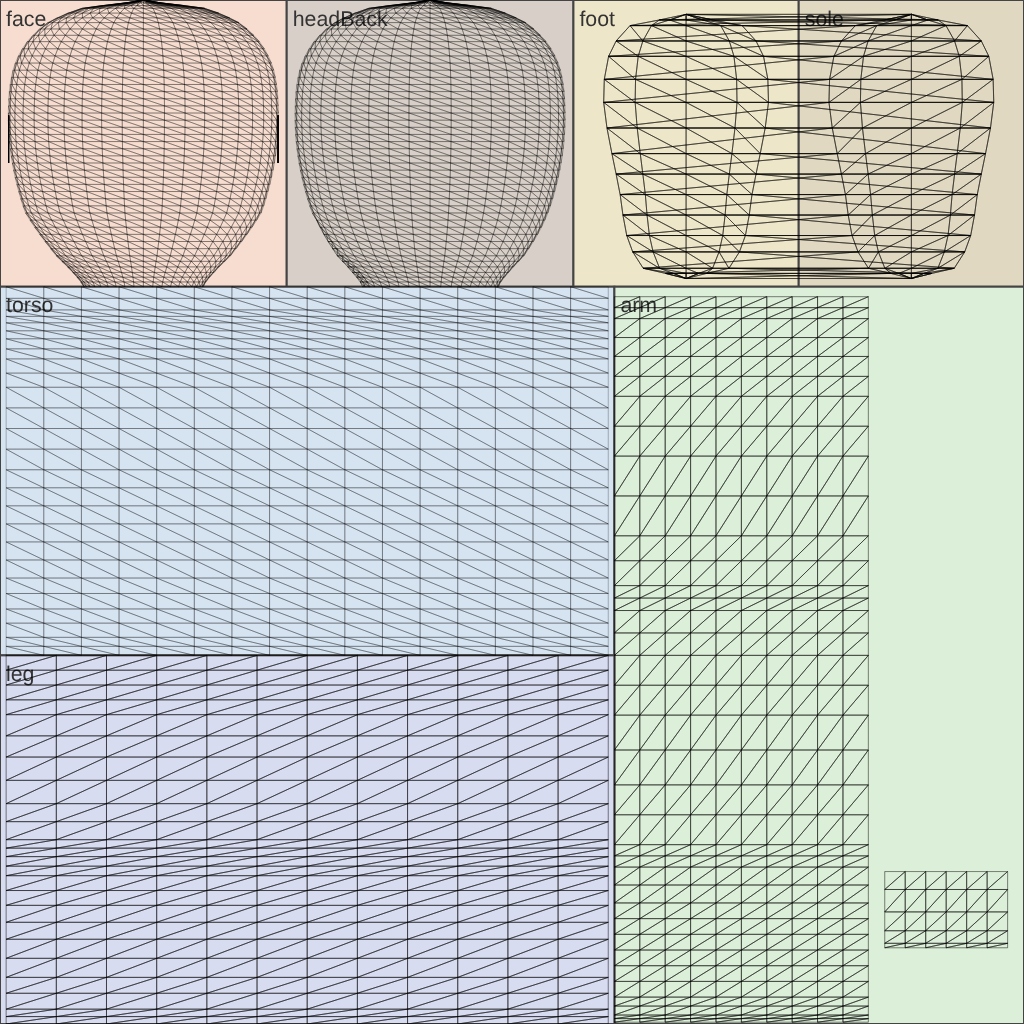
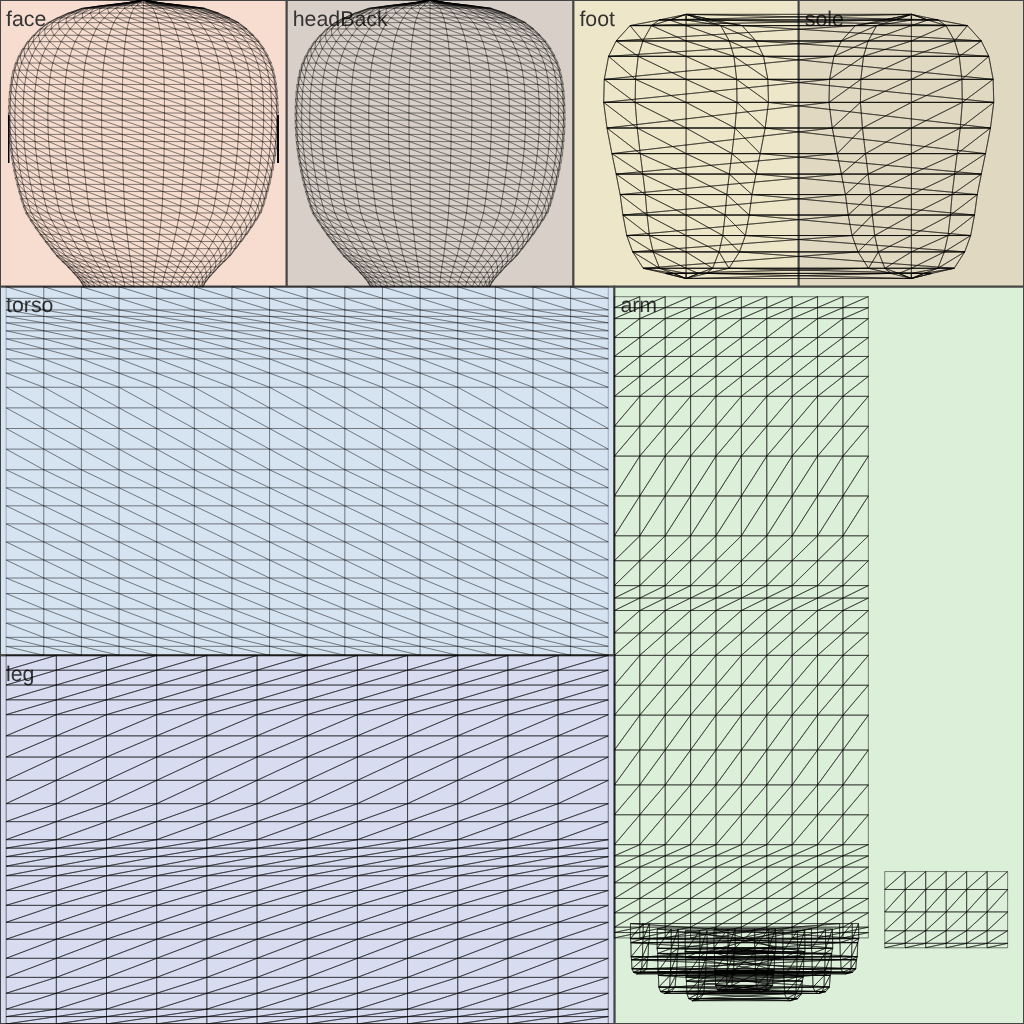
Bodies: separate fingers, clean hairline, shoulder blended into the torso
Claude-Session: https://claude.ai/code/session_01TQrqJmAwukpHBFUrZd2qrz

Changed region(s): [[0.5938, 0.8438, 0.8438, 1.0], [0.3125, 0.1875, 0.5312, 0.2812]]

diff --git a/src/models/body97.js b/src/models/body97.js
@@ -12,12 +12,12 @@ const SPEC = {
   m: { H: 1.78, hipY: 0.93, hipX: 0.088, shY: 1.435, shX: 0.198, armA: 0.16, neckY: 1.50, headY: 1.555, hs: 1.03,
     torso: [[0.80, 0.05, 0.05, 0.06, 0], [0.835, 0.135, 0.085, 0.10, 0], [0.89, 0.172, 0.10, 0.118, 0], [0.95, 0.170, 0.10, 0.112, 0], [1.02, 0.152, 0.098, 0.094, 0.004], [1.10, 0.152, 0.102, 0.09, 0.006], [1.19, 0.170, 0.112, 0.096, 0.006], [1.28, 0.190, 0.126, 0.108, 0.004], [1.36, 0.202, 0.124, 0.114, 0], [1.42, 0.204, 0.104, 0.110, -0.004], [1.462, 0.175, 0.08, 0.096, -0.008], [1.495, 0.092, 0.062, 0.078, -0.008], [1.52, 0.058, 0.056, 0.062, -0.004], [1.57, 0.054, 0.054, 0.06, 0.002]],
     arm: [[-0.045, 0.02, 0.03], [-0.02, 0.04, 0.05], [0.02, 0.05, 0.058], [0.06, 0.053, 0.06], [0.12, 0.052, 0.056], [0.20, 0.046, 0.05], [0.265, 0.04, 0.042], [0.295, 0.039, 0.04], [0.34, 0.045, 0.043], [0.40, 0.041, 0.038], [0.48, 0.032, 0.029], [0.545, 0.027, 0.022]],
-    leg: [[-0.07, 0.05, 0.05, 0.06], [0.0, 0.08, 0.088, 0.10], [0.07, 0.086, 0.09, 0.098], [0.18, 0.082, 0.084, 0.084], [0.30, 0.068, 0.07, 0.07], [0.39, 0.058, 0.06, 0.058], [0.435, 0.056, 0.062, 0.054], [0.48, 0.052, 0.054, 0.056], [0.56, 0.056, 0.05, 0.07], [0.64, 0.05, 0.046, 0.062], [0.74, 0.038, 0.038, 0.042], [0.82, 0.033, 0.034, 0.036], [0.855, 0.034, 0.036, 0.038]],
+    leg: [[-0.07, 0.05, 0.05, 0.06], [0.0, 0.08, 0.074, 0.10], [0.07, 0.086, 0.088, 0.098], [0.18, 0.082, 0.084, 0.084], [0.30, 0.068, 0.07, 0.07], [0.39, 0.058, 0.06, 0.058], [0.435, 0.056, 0.062, 0.054], [0.48, 0.052, 0.054, 0.056], [0.56, 0.056, 0.05, 0.07], [0.64, 0.05, 0.046, 0.062], [0.74, 0.038, 0.038, 0.042], [0.82, 0.033, 0.034, 0.036], [0.855, 0.034, 0.036, 0.038]],
     elbow: 0.295, wrist: 0.545, knee: 0.435, ankle: 0.855, hand: 1.0, foot: 1.0 },
   f: { H: 1.66, hipY: 0.87, hipX: 0.086, shY: 1.338, shX: 0.168, armA: 0.17, neckY: 1.40, headY: 1.45, hs: 0.955,
     torso: [[0.75, 0.05, 0.05, 0.06, 0], [0.785, 0.14, 0.085, 0.105, 0], [0.84, 0.182, 0.10, 0.125, 0], [0.90, 0.176, 0.098, 0.115, 0], [0.97, 0.142, 0.088, 0.088, 0.004], [1.04, 0.124, 0.084, 0.078, 0.006], [1.11, 0.132, 0.092, 0.082, 0.006], [1.19, 0.146, 0.104, 0.092, 0.004], [1.27, 0.166, 0.106, 0.098, 0], [1.325, 0.170, 0.09, 0.096, -0.004], [1.364, 0.146, 0.068, 0.084, -0.008], [1.395, 0.074, 0.054, 0.066, -0.008], [1.42, 0.048, 0.046, 0.052, -0.004], [1.465, 0.045, 0.045, 0.05, 0.002]],
     arm: [[-0.04, 0.018, 0.026], [-0.018, 0.033, 0.042], [0.02, 0.041, 0.048], [0.06, 0.044, 0.049], [0.12, 0.043, 0.046], [0.20, 0.038, 0.041], [0.25, 0.034, 0.036], [0.275, 0.033, 0.034], [0.32, 0.037, 0.036], [0.38, 0.034, 0.032], [0.45, 0.027, 0.025], [0.51, 0.023, 0.019]],
-    leg: [[-0.07, 0.05, 0.05, 0.06], [0.0, 0.084, 0.088, 0.104], [0.07, 0.092, 0.09, 0.102], [0.17, 0.084, 0.084, 0.086], [0.28, 0.068, 0.07, 0.07], [0.365, 0.056, 0.058, 0.056], [0.405, 0.053, 0.058, 0.052], [0.45, 0.049, 0.05, 0.052], [0.52, 0.052, 0.046, 0.064], [0.60, 0.046, 0.042, 0.056], [0.69, 0.035, 0.035, 0.038], [0.765, 0.03, 0.031, 0.033], [0.80, 0.031, 0.033, 0.035]],
+    leg: [[-0.07, 0.05, 0.05, 0.06], [0.0, 0.084, 0.074, 0.104], [0.07, 0.092, 0.088, 0.102], [0.17, 0.084, 0.084, 0.086], [0.28, 0.068, 0.07, 0.07], [0.365, 0.056, 0.058, 0.056], [0.405, 0.053, 0.058, 0.052], [0.45, 0.049, 0.05, 0.052], [0.52, 0.052, 0.046, 0.064], [0.60, 0.046, 0.042, 0.056], [0.69, 0.035, 0.035, 0.038], [0.765, 0.03, 0.031, 0.033], [0.80, 0.031, 0.033, 0.035]],
     elbow: 0.275, wrist: 0.51, knee: 0.405, ankle: 0.80, hand: 0.9, foot: 0.9 },
 };
 // the head, as rings up from the chin: [dy, rx, rzFront, rzBack]; the face is then sculpted on the front
@@ -59,7 +59,7 @@ function bodyGeometry(sex) { if (_geo[sex]) return _geo[sex]; const S = SPEC[sex
   // ---- head: the front half takes the face map straight on (a flat projection), the back half the hair
   { const R = smooth(HEAD, 3), hs = S.hs, base0 = S.headY, M = 20, half = (front) => { const base = b.p.length / 3, AR = front ? ATLAS.face : ATLAS.headBack;
       for (const [dy, rx, rf, rb] of R) for (let c = 0; c <= M; c++) { const a = (front ? -Math.PI / 2 : Math.PI / 2) + (c / M) * Math.PI, sn = Math.sin(a), cs = Math.cos(a); let x = rx * sn, z = (cs > 0 ? rf : rb) * cs + 0.006;
-          [x, z] = sculptFace(x, dy, z, a, fem); const u = front ? 0.5 + x / 0.168 : 0.5 - x / 0.168, w = blend(dy, 0.005, 0.02, B.neck, B.head);
+          [x, z] = sculptFace(x, dy, z, front ? a : Math.sign(sn) * (Math.PI / 2 - 1e-6), fem); if (!front) z = (cs > 0 ? rf : rb) * cs + 0.006 + (z - ((cs > 0 ? rf : rb) * cs + 0.006)) * Math.max(0, 1 + cs * 6); const u = front ? 0.5 + x / 0.168 : 0.5 - x / 0.168, w = blend(dy, 0.005, 0.02, B.neck, B.head);
           b.v(x * hs, base0 + dy * hs, z * hs, ...rect(AR, Math.min(1, Math.max(0, u)), (dy + 0.012) / HEAD_H), w); }
       b.grid(base, R.length, M + 1, false); }; half(true); half(false);
     // ears: a small flattened shell each side, painted from the edge of the face map
@@ -68,14 +68,18 @@ function bodyGeometry(sex) { if (_geo[sex]) return _geo[sex]; const S = SPEC[sex
   // ---- arms (hanging in a slight A-pose; both share the arm strip of the atlas, mirrored) with hands
   for (const s of [-1, 1]) { const R = smooth(S.arm, 2), A = S.armA * s, ca = Math.cos(A), sa = Math.sin(A), sx = s * S.shX, bU = s < 0 ? B.armL : B.armR, base = b.p.length / 3, L = S.wrist + 0.2 * S.hand, AN = 10;
     const put = (lx, t, lz, u, v, w) => b.v(sx + lx * ca + t * sa, S.shY - t * ca + lx * sa, lz, ...rect(ATLAS.arm, u, 1 - v), w);
-    for (const [t, rx, rz] of R) for (let c = 0; c <= AN; c++) { const a = -Math.PI + (c / AN) * Math.PI * 2; const w = t < S.elbow + 0.08 ? blend(t, S.elbow, 0.045, bU, bU + 1) : blend(t, S.wrist, 0.02, bU + 1, bU + 2);
-        put(rx * Math.sin(a) * s, t, rz * Math.cos(a) + (t > S.elbow ? 0.004 : -0.004), c / AN * 0.62, (t + 0.05) / (L + 0.05), w); }
+    for (const [t, rx, rz] of R) for (let c = 0; c <= AN; c++) { const a = -Math.PI + (c / AN) * Math.PI * 2; const w = t < 0.035 ? blend(t, 0.0, 0.035, B.chest, bU) : t < S.elbow + 0.08 ? blend(t, S.elbow, 0.045, bU, bU + 1) : blend(t, S.wrist, 0.02, bU + 1, bU + 2), lean = t < 0.03 ? (0.03 - t) * 0.95 : 0;
+        put(rx * Math.sin(a) * s - s * lean, t + lean * S.armA, rz * Math.cos(a) + (t > S.elbow ? 0.004 : -0.004), c / AN * 0.62, (t + 0.05) / (L + 0.05), w); }
     b.grid(base, R.length, AN + 1, s > 0);
-    // hand: palm to fingertips as flat rings (thin across x, wide front to back), fingers held together, a thumb
-    { const h = S.hand, HR = smooth([[0, 0.022, 0.027], [0.025, 0.014, 0.036], [0.065, 0.013, 0.043], [0.1, 0.012, 0.042], [0.135, 0.0105, 0.039], [0.17, 0.009, 0.034], [0.19, 0.006, 0.026], [0.198, 0, 0.012]], 2), hb = b.p.length / 3;
-      for (const [t, rx, rz] of HR) for (let c = 0; c <= AN; c++) { const a = -Math.PI + (c / AN) * Math.PI * 2, cs = Math.cos(a), sn = Math.sin(a), curl = t > 0.1 ? (t - 0.1) * 0.25 : 0; put((rx * sn * s - curl * s) * h, S.wrist + t * h, (rz * Math.sign(cs) * Math.abs(cs) ** 0.6 + 0.008 + (t > 0.1 ? (t - 0.1) * 0.12 : 0)) * h, c / AN * 0.62, (S.wrist + t * h + 0.05) / (L + 0.05), [[bU + 2, 1]]); }
-      b.grid(hb, HR.length, AN + 1, s > 0);
-      const TR = [[0, 0.011, 0.012], [0.02, 0.0125, 0.0145], [0.045, 0.0115, 0.013], [0.066, 0.01, 0.011], [0.08, 0.0065, 0.007], [0.085, 0, 0.001]], tb = b.p.length / 3; for (const [t, rx, rz] of TR) for (let c = 0; c <= 6; c++) { const a = (c / 6) * Math.PI * 2; put((rx * Math.sin(a) * s - 0.004 * s) * h, S.wrist + (0.03 + t * 0.8) * h, (0.036 + t * 0.3 + rz * Math.cos(a)) * h, 0.66 + c / 6 * 0.3, (S.wrist + (0.03 + t) * h + 0.05) / (L + 0.05), [[bU + 2, 1]]); }
+    // hand: a palm, four separate fingers (index at the front, each with two knuckle rings, lightly curled), a thumb
+    { const h = S.hand, V0 = (tt) => (S.wrist + tt * h + 0.05) / (L + 0.05), PR = smooth([[0, 0.022, 0.027], [0.025, 0.0145, 0.036], [0.06, 0.0135, 0.043], [0.092, 0.012, 0.042], [0.104, 0.0085, 0.039]], 2), hb = b.p.length / 3, hw = [[bU + 2, 1]];
+      for (const [t, rx, rz] of PR) for (let c = 0; c <= AN; c++) { const a = -Math.PI + (c / AN) * Math.PI * 2, cs = Math.cos(a), sn = Math.sin(a); put(rx * sn * s * h, S.wrist + t * h, (rz * Math.sign(cs) * Math.abs(cs) ** 0.6 + 0.008) * h, c / AN * 0.62, V0(t), hw); }
+      b.grid(hb, PR.length, AN + 1, s > 0);
+      const FN = 6; [[0.031, 0.07, 0.0102, 0.094], [0.0105, 0.078, 0.0106, 0.096], [-0.0098, 0.072, 0.0102, 0.094], [-0.0295, 0.056, 0.0092, 0.088]].forEach(([zc, len, fr, t0], fi) => { const fb = b.p.length / 3, FRg = [[0, 1.0], [0.3, 1.02], [0.38, 0.94], [0.66, 0.9], [0.72, 0.84], [0.9, 0.78], [0.97, 0.52], [1.0, 0.0]];
+        for (const [k, rr] of FRg) for (let c = 0; c <= FN; c++) { const a = (c / FN) * Math.PI * 2, sn = Math.sin(a), cs = Math.cos(a), curl = (k * len) ** 2 * (2.2 + fi * 0.5), spread = (zc - 0.001) * k * 0.12, lx = fr * rr * 1.05 * sn, lz = fr * rr * 0.98 * cs;
+            put((lx * s - curl * s) * h, S.wrist + (t0 + k * len) * h, (zc + 0.008 + spread + lz) * h, sn > 0 ? 0.465 - (zc + lz) * 3.4 : 0.155 + (zc + lz) * 3.4, V0(t0 + k * len), hw); }
+        b.grid(fb, FRg.length, FN + 1, s < 0); });
+      const TR = [[0, 0.008, 0.009], [0.02, 0.0102, 0.0115], [0.045, 0.0096, 0.0105], [0.066, 0.0086, 0.0092], [0.08, 0.006, 0.0062], [0.085, 0, 0.001]], tb = b.p.length / 3; for (const [t, rx, rz] of TR) for (let c = 0; c <= 6; c++) { const a = (c / 6) * Math.PI * 2; put((rx * Math.sin(a) * s - 0.004 * s) * h, S.wrist + (0.03 + t * 0.8) * h, (0.038 + t * 0.42 + rz * Math.cos(a)) * h, 0.66 + c / 6 * 0.3, V0(0.03 + t), hw); }
       b.grid(tb, TR.length, 7, s > 0); } }
   // ---- legs (share the leg strip, mirrored) and feet
   for (const s of [-1, 1]) { const R = smooth(S.leg, 2), sx = s * S.hipX, bU = s < 0 ? B.thighL : B.thighR, base = b.p.length / 3, LN = 12, L = S.ankle;
@@ -89,7 +93,7 @@ function bodyGeometry(sex) { if (_geo[sex]) return _geo[sex]; const S = SPEC[sex
       b.grid(fb, FR.length, FN + 1, false); } }
   const g = new THREE.BufferGeometry(); g.setAttribute('position', new THREE.Float32BufferAttribute(b.p, 3)); g.setAttribute('uv', new THREE.Float32BufferAttribute(b.uv, 2)); g.setAttribute('skinIndex', new THREE.Uint16BufferAttribute(b.si, 4)); g.setAttribute('skinWeight', new THREE.Float32BufferAttribute(b.sw, 4)); g.setIndex(b.idx); g.computeVertexNormals();
   // weld the normals of vertices that share a position (UV seams), so no seam shows in the shading
-  { const p = g.attributes.position, n = g.attributes.normal, map = new Map(); for (let i = 0; i < p.count; i++) { const k = Math.round(p.getX(i) * 4000) + '|' + Math.round(p.getY(i) * 4000) + '|' + Math.round(p.getZ(i) * 4000); (map.get(k) || map.set(k, []).get(k)).push(i); }
+  { const p = g.attributes.position, n = g.attributes.normal, map = new Map(); for (let i = 0; i < p.count; i++) { const k = Math.round(p.getX(i) * 1500) + '|' + Math.round(p.getY(i) * 1500) + '|' + Math.round(p.getZ(i) * 1500); (map.get(k) || map.set(k, []).get(k)).push(i); }
     for (const l of map.values()) if (l.length > 1) { let x = 0, y = 0, z = 0; for (const i of l) { x += n.getX(i); y += n.getY(i); z += n.getZ(i); } const d = Math.hypot(x, y, z) || 1; for (const i of l) n.setXYZ(i, x / d, y / d, z / d); } }
   g.computeBoundingSphere(); g.boundingSphere.radius *= 1.3; g.userData.spec = S; return (_geo[sex] = g); }
 
@@ -107,13 +111,17 @@ export function makeBody(sex = 'm', material) { const S = SPEC[sex], geo = bodyG
 
 // ---- hair: a shell over the scalp, hung from the head bone. Styles: 'short', 'crop', 'bob', 'long', 'bald' (none)
 const _hair = {};
-function hairGeometry(sex, style) { const key = sex + style; if (_hair[key]) return _hair[key]; const S = SPEC[sex], hs = S.hs, N = 20, R = smooth(HEAD, 3), low = style === 'long' ? -0.17 : style === 'bob' ? -0.03 : 0.06, th = style === 'crop' ? 0.004 : style === 'short' ? 0.009 : 0.014;
-  const rows = []; for (let dy = low; dy < R[0][0]; dy += 0.02) rows.push([dy, null]); for (const r of R) if (r[0] >= Math.max(low, 0.03)) rows.push([r[0], r]); const ref = R.find((r) => r[0] >= 0.06);
-  const line = (a) => { const d = Math.abs(a) * 180 / Math.PI; return d < 55 ? 0.17 - (style === 'bob' || style === 'long' ? 0.012 * (d / 55) : 0) : d < 100 ? lerp(0.165, style === 'short' || style === 'crop' ? 0.1 : low, (d - 55) / 45) : low; };
-  const p = [], uv = [], idx = []; for (const [dy, r] of rows) for (let c = 0; c <= N; c++) { const a = -Math.PI + (c / N) * Math.PI * 2, sn = Math.sin(a), cs = Math.cos(a), q = r || ref, on = dy >= line(a) - 1e-6, k = on ? 1 : 0.9, drop = r ? 0 : (0.06 - dy) * 0.12;
-      let x = q[1] * sn, z = (cs > 0 ? q[2] : q[3]) * cs + 0.006; const len = Math.hypot(x, z) || 1, edge = Math.min(1, Math.max(0.25, (dy - line(a)) / 0.03)), t2 = on ? th * edge : -0.006; x = (x + x / len * t2) * k * (1 - drop); z = (z + z / len * t2) * k * (1 - drop * 0.4);
-      p.push(x * hs, (Math.max(dy, on ? -1 : line(a)) + (on && dy > 0.2 ? th * 0.6 * (dy - 0.2) / 0.03 : 0)) * hs - 0.005, z * hs); uv.push(...rect(ATLAS.headBack, 0.08 + 0.84 * c / N, lerp(0.45, 0.98, (dy - low) / (0.23 - low)))); }
+function hairGeometry(sex, style) { const key = sex + style; if (_hair[key]) return _hair[key]; const S = SPEC[sex], hs = S.hs, N = 28, R = smooth(HEAD, 3), shortS = style === 'short' || style === 'crop', low = style === 'long' ? -0.17 : style === 'bob' ? -0.03 : 0.058, th = style === 'crop' ? 0.004 : style === 'short' ? 0.008 : 0.014;
+  const ringAt = (dy) => { if (dy <= 0.06) return R.find((r) => r[0] >= 0.06); for (let i = 0; i < R.length - 1; i++) if (dy <= R[i + 1][0]) { const t = (dy - R[i][0]) / (R[i + 1][0] - R[i][0]); return R[i].map((v, k) => lerp(v, R[i + 1][k], t)); } return R[R.length - 1]; };
+  const ss = (x) => { x = Math.min(1, Math.max(0, x)); return x * x * (3 - 2 * x); };
+  // the hairline, by angle from straight ahead: forehead, temple, over the ear, down to the nape (or the hair's length)
+  const line = (a) => { const d = Math.abs(a) * 180 / Math.PI; if (shortS) return d < 40 ? 0.17 : d < 72 ? lerp(0.17, 0.128, ss((d - 40) / 32)) : d < 100 ? 0.128 : lerp(0.128, low, ss((d - 100) / 35)); return d < 45 ? 0.17 - 0.01 * (d / 45) : lerp(0.16, low, ss((d - 45) / 40)); };
+  const rows = []; for (let dy = low; dy < 0.058; dy += 0.02) rows.push(dy); for (let dy = 0.058; dy < 0.2295; dy += 0.0086) rows.push(dy);
+  const p = [], uv = [], idx = []; for (const dy of rows) for (let c = 0; c <= N; c++) { const a = -Math.PI + (c / N) * Math.PI * 2, sn = Math.sin(a), cs = Math.cos(a), ln = line(a), de = Math.max(dy, ln), q = ringAt(de), drop = de < 0.06 ? (0.06 - de) * 0.12 : 0, edge = Math.min(1, 0.12 + (de - ln) / 0.03), t2 = th * edge;
+      let x = q[1] * sn, z = (cs > 0 ? q[2] : q[3]) * cs + 0.006; const len = Math.hypot(x, z) || 1; x = (x + x / len * t2) * (1 - drop); z = (z + z / len * t2) * (1 - drop * 0.4);
+      p.push(x * hs, (de + (de > 0.2 ? th * 0.6 * (de - 0.2) / 0.03 : 0)) * hs - 0.005, z * hs); uv.push(...rect(ATLAS.headBack, 0.08 + 0.84 * c / N, lerp(0.45, 0.98, (de - low) / (0.23 - low)))); }
   for (let r = 0; r < rows.length - 1; r++) for (let c = 0; c < N; c++) { const a = r * (N + 1) + c, b = a + 1, d = a + N + 1, e = d + 1; idx.push(a, b, d, b, e, d); }
+  { const top = p.length / 3, tr = (rows.length - 1) * (N + 1), cy = (0.229 + th * 0.6) * hs - 0.004; p.push(0, cy, 0.004 * hs); uv.push(...rect(ATLAS.headBack, 0.5, 0.99)); for (let c = 0; c < N; c++) idx.push(tr + c, tr + c + 1, top); }
   const g = new THREE.BufferGeometry(); g.setAttribute('position', new THREE.Float32BufferAttribute(p, 3)); g.setAttribute('uv', new THREE.Float32BufferAttribute(uv, 2)); g.setIndex(idx); g.computeVertexNormals(); return (_hair[key] = g); }
 export function addHair(body, style, material) { if (!style || style === 'bald') return null; const m = new THREE.Mesh(hairGeometry(body.userData.sex, style), material); body.userData.bones.head.add(m); return m; }
 
@@ -147,7 +155,7 @@ export function paintSkin(sex = 'm', { skin = '#d8a880', hair = '#2a1c12', top =
     grain(ATLAS.foot, 0, 0, 1, 1, shoe, 0.08, 500); x.fillStyle = shade(shoe, 0.5); box(ATLAS.foot, 0.42, 0.3, 0.58, 0.62); x.fillStyle = shade(shoe, 1.6); for (let i = 0; i < 4; i++) box(ATLAS.foot, 0.4, 0.34 + i * 0.07, 0.6, 0.355 + i * 0.07); grain(ATLAS.sole, 0, 0, 1, 1, shade(shoe, 0.45), 0.06, 300); }
   // face: placed to the sculpted features (eyes 0.128 up from the chin, nose tip 0.082, mouth 0.046), then hair
   { const R = ATLAS.face, FY = (dy) => (dy + 0.012) / HEAD_H, FX = (m) => 0.5 + m / 0.168, P = (m, dy) => px(R, FX(m), FY(dy)), u = size * 0.28 / 0.168;   // u: pixels per metre across the face
-    hgrad(R, [[0, 'rgba(0,0,0,0.28)'], [0.2, 'rgba(0,0,0,0.05)'], [0.5, 'rgba(255,255,255,0.05)'], [0.8, 'rgba(0,0,0,0.05)'], [1, 'rgba(0,0,0,0.28)']]); vgrad(R, 0, 0, 1, 0.16, 'rgba(0,0,0,0)', 'rgba(0,0,0,0.3)');
+    hgrad(R, [[0, 'rgba(0,0,0,0.05)'], [0.5, 'rgba(255,255,255,0.05)'], [1, 'rgba(0,0,0,0.05)']]); hgrad(ATLAS.headBack, [[0, 'rgba(0,0,0,0.05)'], [0.5, 'rgba(0,0,0,0.1)'], [1, 'rgba(0,0,0,0.05)']]); vgrad(ATLAS.headBack, 0, 0, 1, 0.16, 'rgba(0,0,0,0)', 'rgba(0,0,0,0.3)'); vgrad(R, 0, 0, 1, 0.16, 'rgba(0,0,0,0)', 'rgba(0,0,0,0.3)');
     if (!fem) { const [bx, by] = P(0, 0.035); const g = x.createRadialGradient(bx, by, u * 0.01, bx, by, u * 0.06); g.addColorStop(0, 'rgba(40,30,25,0.16)'); g.addColorStop(1, 'rgba(40,30,25,0)'); x.fillStyle = g; x.fillRect(bx - u * 0.07, by - u * 0.05, u * 0.14, u * 0.1); }
     for (const s of [-1, 1]) { const [ex, ey] = P(s * 0.031, 0.128); x.fillStyle = 'rgba(60,30,20,0.22)'; x.beginPath(); x.ellipse(ex, ey, u * 0.02, u * 0.012, 0, 0, 7); x.fill();
       x.fillStyle = '#ece6de'; x.beginPath(); x.ellipse(ex, ey, u * 0.0135, u * 0.0062, 0, 0, 7); x.fill(); x.fillStyle = ['#3a2616', '#2a4a6a', '#3a5a3a', '#1c1410'][seed % 4]; x.beginPath(); x.arc(ex, ey, u * 0.006, 0, 7); x.fill(); x.fillStyle = '#0a0806'; x.beginPath(); x.arc(ex, ey, u * 0.0028, 0, 7); x.fill();
@@ -157,7 +165,7 @@ export function paintSkin(sex = 'm', { skin = '#d8a880', hair = '#2a1c12', top =
       const [cx, cy] = P(s * 0.045, 0.08); const g = x.createRadialGradient(cx, cy, 0, cx, cy, u * 0.025); g.addColorStop(0, fem ? 'rgba(210,90,90,0.22)' : 'rgba(190,90,80,0.1)'); g.addColorStop(1, 'rgba(200,90,90,0)'); x.fillStyle = g; x.fillRect(cx - u * 0.03, cy - u * 0.03, u * 0.06, u * 0.06); }
     { const [m0x, m0y] = P(-0.024, 0.047), [m1x, m1y] = P(0.024, 0.047), [mcx, mcy] = P(0, 0.046), lip = fem ? 'rgba(170,60,70,0.85)' : 'rgba(150,85,75,0.6)'; x.fillStyle = lip; x.beginPath(); x.moveTo(m0x, m0y); x.quadraticCurveTo(mcx, mcy - u * 0.011, m1x, m1y); x.quadraticCurveTo(mcx, mcy + u * 0.013, m0x, m0y); x.fill(); x.strokeStyle = 'rgba(60,20,20,0.8)'; x.lineWidth = u * 0.0016; x.beginPath(); x.moveTo(m0x, m0y); x.quadraticCurveTo(mcx, mcy + u * 0.002, m1x, m1y); x.stroke(); }
     // hair: over the top of the face map (a hairline), the whole back of the head, sideburns
-    const hl = fem ? 0.172 : 0.178; x.fillStyle = hair; { const [ax, ay] = px(R, 0, 1), [bx] = px(R, 1, 1), [, hy] = P(0, hl); x.beginPath(); x.moveTo(ax, ay); x.lineTo(bx, ay); x.lineTo(bx, P(0, fem ? 0.06 : 0.115)[1]); x.lineTo(P(0.068, fem ? 0.09 : 0.125)[0], P(0, fem ? 0.1 : 0.13)[1]); x.quadraticCurveTo(P(0.06, 0)[0], hy, P(0, 0)[0], hy + u * 0.004); x.quadraticCurveTo(P(-0.06, 0)[0], hy, P(-0.068, 0)[0], P(0, fem ? 0.1 : 0.13)[1]); x.lineTo(ax, P(0, fem ? 0.06 : 0.115)[1]); x.closePath(); x.fill(); }
+    const hl = fem ? 0.172 : 0.178; x.fillStyle = hair; { const [ax, ay] = px(R, 0, 1), [bx] = px(R, 1, 1), [, hy] = P(0, hl); x.beginPath(); x.moveTo(ax, ay); x.lineTo(bx, ay); x.lineTo(bx, P(0, fem ? 0.06 : 0.13)[1]); x.lineTo(P(0.068, 0)[0], P(0, fem ? 0.1 : 0.14)[1]); x.quadraticCurveTo(P(0.06, 0)[0], hy, P(0, 0)[0], hy + u * 0.004); x.quadraticCurveTo(P(-0.06, 0)[0], hy, P(-0.068, 0)[0], P(0, fem ? 0.1 : 0.14)[1]); x.lineTo(ax, P(0, fem ? 0.06 : 0.13)[1]); x.closePath(); x.fill(); }
     const RB = ATLAS.headBack; grain(RB, 0, fem ? 0.0 : 0.3, 1, 1, hair, 0.12, 900); if (!fem) vgrad(RB, 0, 0.22, 1, 0.34, 'rgba(0,0,0,0)', 'rgba(0,0,0,0)');
     x.strokeStyle = 'rgba(255,255,255,0.06)'; x.lineWidth = 1; for (let i = 0; i < 60; i++) { const [sx2, sy2] = px(RB, rnd(), 0.4 + rnd() * 0.6); x.beginPath(); x.moveTo(sx2, sy2); x.lineTo(sx2 + (rnd() - 0.5) * 6, sy2 + 14); x.stroke(); } }
   const t = new THREE.CanvasTexture(c); t.colorSpace = THREE.SRGBColorSpace; t.anisotropy = 4; return t; }

diff --git a/bodytest.html b/bodytest.html
@@ -5,7 +5,7 @@ import * as THREE from 'three'; import { makeBody, paintSkin, drawTemplate, addH
 const q = new URLSearchParams(location.search), r = new THREE.WebGLRenderer({ antialias: true }); r.setSize(innerWidth, innerHeight); document.body.appendChild(r.domElement); r.outputColorSpace = THREE.SRGBColorSpace;
 const s = new THREE.Scene(); s.background = new THREE.Color('#8a8f96'); s.add(new THREE.HemisphereLight('#ffffff', '#555048', 1.6)); const d = new THREE.DirectionalLight('#fff', 2.2); d.position.set(2, 4, 3); s.add(d);
 const cam = new THREE.PerspectiveCamera(30, innerWidth / innerHeight, 0.05, 50);
-if (q.get('tpl')) { const c = drawTemplate(q.get('tpl'), 1024); document.body.innerHTML = ''; document.body.appendChild(c); window.done = true; } else {
+if (q.get('paint')) { const c = paintSkin(q.get('paint'), { seed: 1 }).image; document.body.innerHTML = ''; document.body.appendChild(c); window.done = true; } else if (q.get('tpl')) { const c = drawTemplate(q.get('tpl'), 1024); document.body.innerHTML = ''; document.body.appendChild(c); window.done = true; } else {
 const grey = q.get('grey'), mk = (sex, x, ry, ph, o) => { const m = grey ? new THREE.MeshStandardMaterial({ color: '#c8c4bc', roughness: 0.7, flatShading: grey === 'flat' }) : new THREE.MeshStandardMaterial({ map: paintSkin(sex, o), roughness: 0.8 }); const b = makeBody(sex, m); if (!grey || q.get('hair')) { const hm = m.clone(); hm.side = THREE.DoubleSide; addHair(b, o.hairStyle || (sex === 'f' ? 'long' : 'short'), hm); } b.position.x = x; b.rotation.y = ry; b.userData.pose(ph, ph ? 1 : 0); s.add(b); return b; };
 const ry = +(q.get('ry') || 0); mk('m', -0.45, ry, 0, { seed: 1 }); mk('f', 0.45, ry, 0, { seed: 2, skin: '#e8c0a0', hair: '#5a3418', top: '#b8485a', bottom: '#2c3040', legs: q.get('legs') || 'long' });
 if (q.get('walk')) { mk('m', -1.5, ry, 1.2, { seed: 3, hairStyle: 'crop', skin: '#8a5a38', top: '#e0dccc', sleeves: 'long' }); mk('f', 1.5, ry, 4.2, { seed: 4, hairStyle: 'bob', skin: '#c89868', hair: '#141010', top: '#3a6a5a', legs: 'short' }); }

diff --git a/POLISH_NOTES.md b/POLISH_NOTES.md
@@ -501,5 +501,7 @@ untextured surfaces and colour maps missing their normal map; unused-export / un
 - people96.js: 40 pedestrians on the district sidewalk rings (respawn 34-72 m away, dropped past 84 m; stop for the
   player, wait for cars, step clear). 9 looks per sex share materials. Two workers at Elm Works.
 - bodytest.html (dev only): bodies on a plain background; ?grey=1 bare mesh, ?walk=1 poses, ?tpl=m|f template.
-- Not done: people indoors / in the old town, crossing streets, talking, sitting; fingers are one block; the short
-  male hair has rough sideburns.
+- Fixes: four separate fingers + slimmer thumb; hair shells get a clean edge (vertices under the hairline sit on it,
+  smooth hairline by angle, closed crown); arm tops lean in under the shoulder slope and are weighted partly to the
+  chest, so the shoulder reads as one surface; thigh tops no longer poke through the hip.
+- Not done: people indoors / in the old town, crossing streets, talking, sitting.
